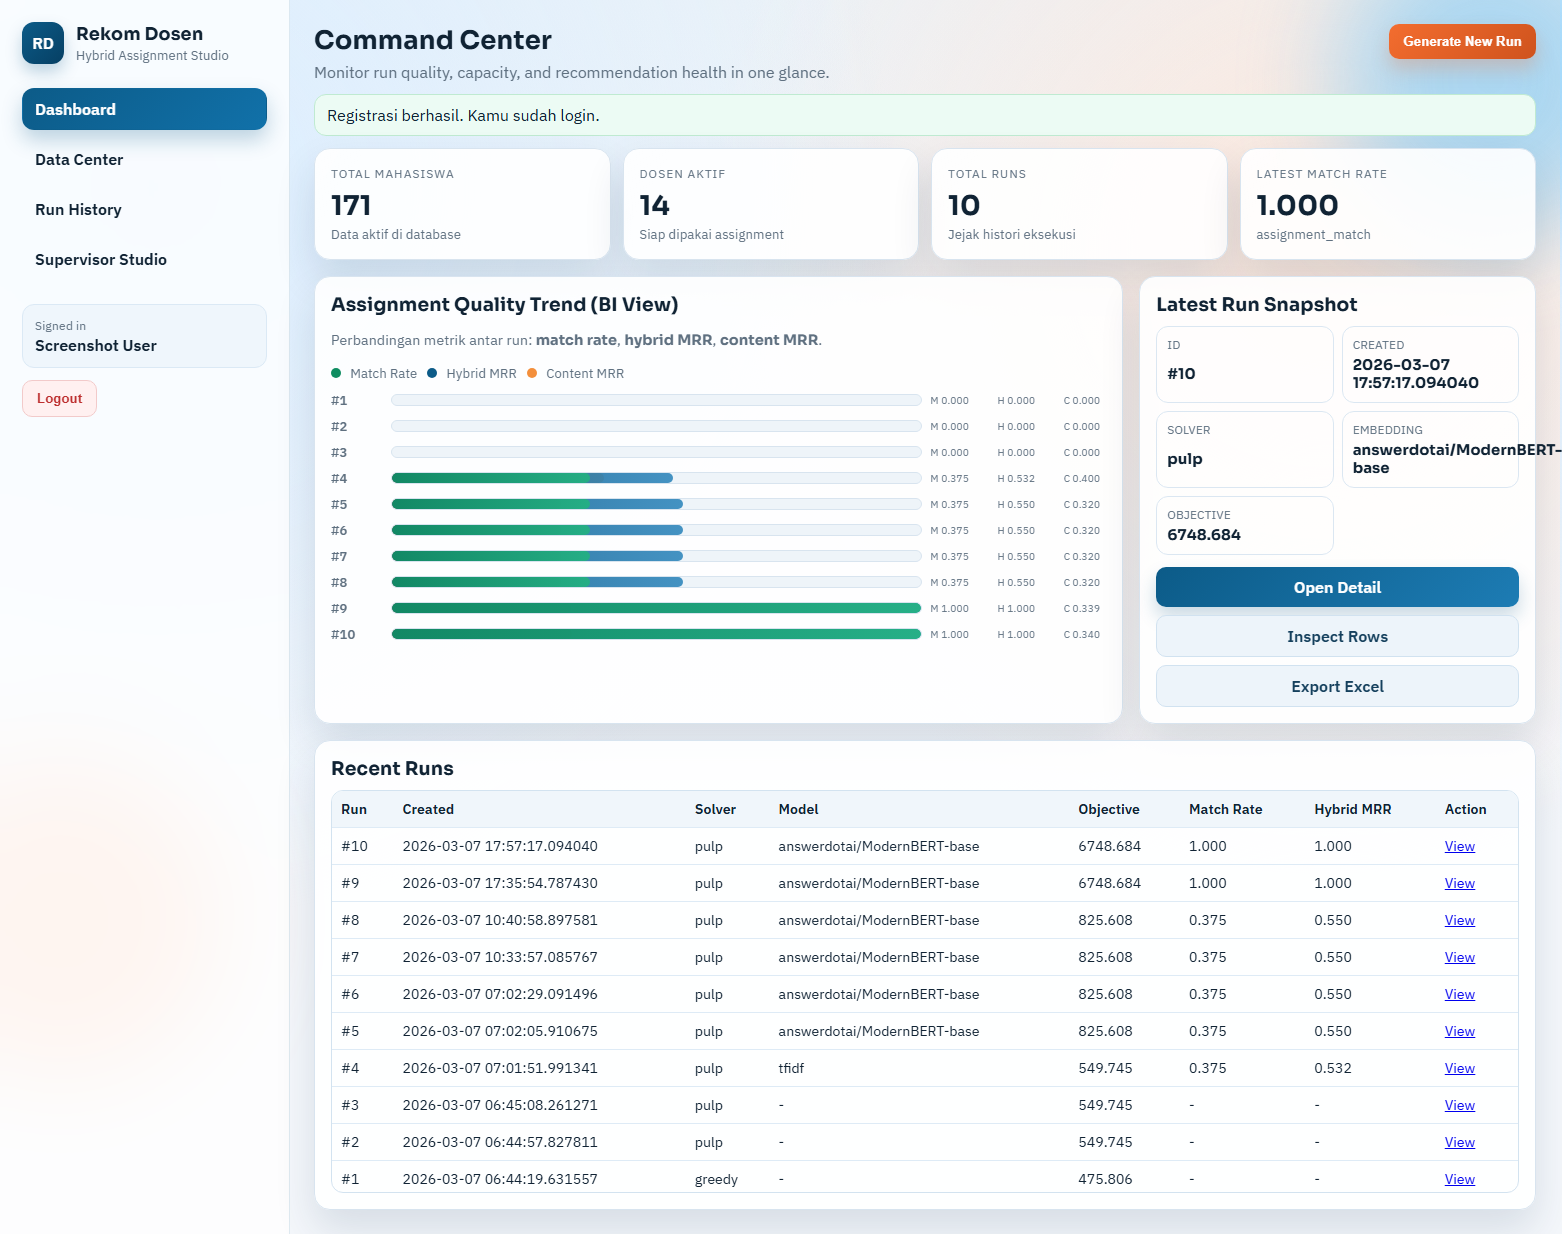
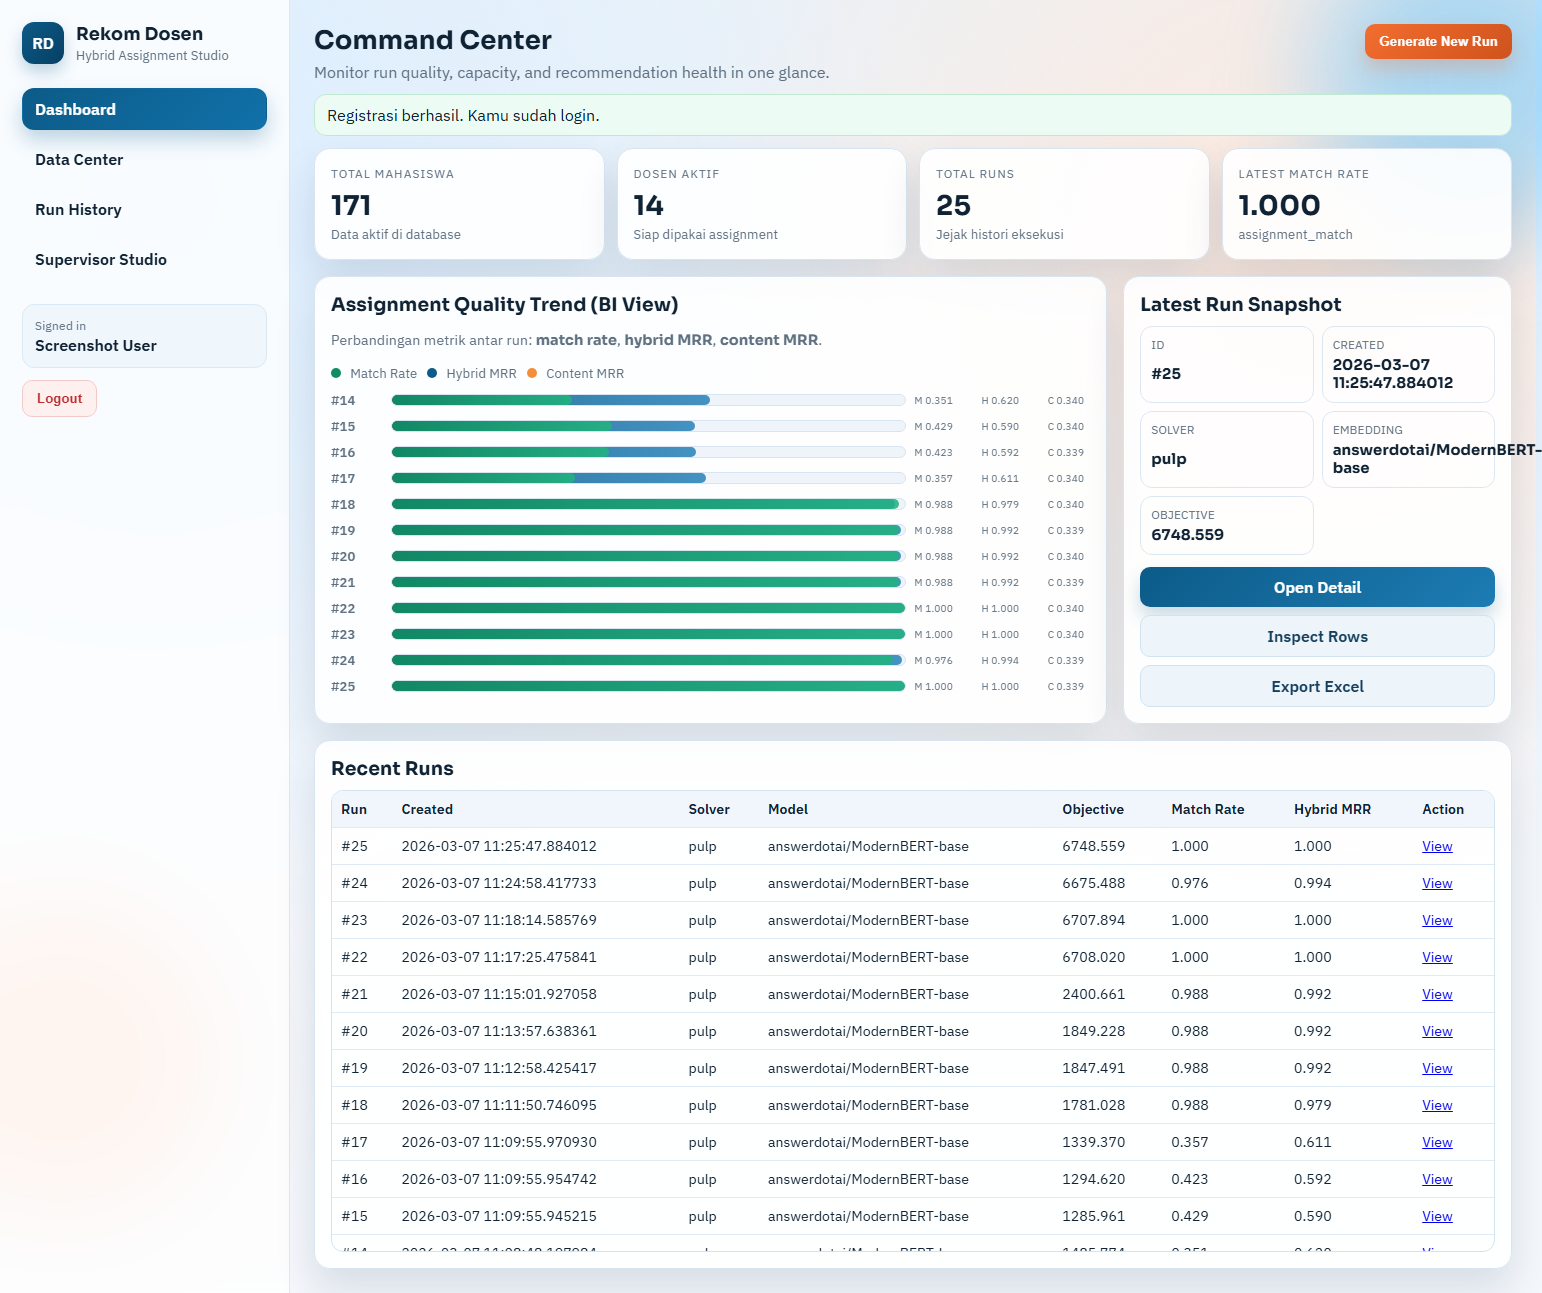
docs: clarify PuLP, add 10-paragraph background, and fix screenshots

Changed region(s): [[0.0, 0.0, 1.0, 0.9854], [0.0, 0.2464, 0.0934, 0.3387], [0.965, 0.2771, 0.9961, 0.3079]]

diff --git a/README.md b/README.md
@@ -164,41 +164,77 @@ Jika Docker belum aktif, start Docker Desktop dulu sebelum menjalankan `docker c
 Jika ingin GPU di Docker, pastikan driver NVIDIA + NVIDIA Container Toolkit tersedia.
 Untuk GPU, ubah `EMBEDDING_DEVICE=cuda` di file `.env`.
 
+## Penjelasan PuLP (Solver)
+
+`PuLP` adalah library Python untuk memodelkan masalah `Linear Programming` dan `Mixed-Integer Linear Programming` (MILP). Di project ini, status `solver_name = pulp` berarti assignment mahasiswa-dosen diselesaikan sebagai optimasi global, bukan sekadar pengisian greedy per baris.
+
+Objektif yang dimaksimalkan:
+
+- total skor pasangan mahasiswa-dosen (`hybrid_score`) setinggi mungkin.
+
+Constraint utama yang dipatuhi:
+
+- setiap mahasiswa tepat 1 dosen,
+- kuota dosen mengikuti rentang target (`min` dan `max`, default 10-12),
+- jika data tidak feasible (mis. total mahasiswa melebihi total slot), sistem melakukan relaksasi terkontrol lalu tetap diselesaikan oleh solver.
+
+Implementasi ada di `app/recommender.py` melalui `pulp.LpProblem(..., pulp.LpMaximize)` dan solver backend `PULP_CBC_CMD`. Jika solver gagal atau modul tidak tersedia, sistem fallback ke `greedy` dan dicatat pada `solver_note`.
+
 ## Screenshots
 
-### Dashboard
+### Dashboard (`screenshots/dashboard.png`)
 ![Dashboard](screenshots/dashboard.png)
 
-### Supervisor Studio
-![Supervisor Studio](screenshots/supervisors.png)
+### Run History (`screenshots/run-history.png`)
+![Run History](screenshots/run-history.png)
 
-### Run History
-![Run History](screenshots/runs.png)
+### Supervisor Studio (`screenshots/supervisor-studio.png`)
+![Supervisor Studio](screenshots/supervisor-studio.png)
 
-## Referensi Riset (2022-2026)
+## Latar Belakang (10 Paragraf, 20 Sitasi)
 
-Daftar berikut dipilih untuk latar belakang skripsi, metode content-based/embedding, dan evaluasi sistem rekomendasi:
+(Roy & Dutta, 2022 [R1]) Sistem rekomendasi berkembang dari sekadar personalisasi konten menjadi komponen inti pengambilan keputusan berbasis data pada banyak domain, termasuk pendidikan tinggi. Dalam konteks pembimbingan akademik, rekomendasi dosen perlu mempertimbangkan kecocokan topik, kapasitas dosen, dan fairness antar pembimbing agar tidak terjadi overload pada dosen tertentu. Karena itu, desain sistem tidak cukup berhenti di akurasi prediksi, tetapi juga harus memodelkan constraint operasional secara eksplisit (Zangerle & Bauer, 2022 [R2]).
 
-1. Roy, D. & Dutta, M. (2022). *A systematic review and research perspective on recommender systems*. Journal of Big Data, 9, 59. https://doi.org/10.1186/s40537-022-00592-5
-2. Zangerle, E. & Bauer, C. (2022). *Evaluating Recommender Systems: Survey and Framework*. ACM Computing Surveys. https://doi.org/10.1145/3556536
-3. Santhanam, K., Khattab, O., Saad-Falcon, J., Potts, C., & Zaharia, M. (2022). *ColBERTv2: Effective and Efficient Retrieval via Lightweight Late Interaction*. NAACL 2022. https://aclanthology.org/2022.naacl-main.272/
-4. Ni, J., Qu, C., Lu, J., Dai, Z., Abrego, G. H., Ma, J., Zhao, V., Luan, Y., Hall, K., Chang, M.-W., & Yang, Y. (2022). *Large Dual Encoders Are Generalizable Retrievers*. EMNLP 2022. https://aclanthology.org/2022.emnlp-main.669/
-5. Wang, L., Yang, N., Huang, X., Jiao, B., Yang, L., Jiang, D., Majumder, R., & Wei, F. (2022). *Text Embeddings by Weakly-Supervised Contrastive Pre-training (E5)*. arXiv:2212.03533. https://arxiv.org/abs/2212.03533
-6. Su, H., Shi, W., Kasai, J., Wang, Y., Hu, Y., Ostendorf, M., Yih, W.-t., Smith, N. A., Zettlemoyer, L., & Yu, T. (2023). *One Embedder, Any Task: Instruction-Finetuned Text Embeddings*. Findings of ACL 2023. https://aclanthology.org/2023.findings-acl.71/
-7. Gao, L., Ma, X., Lin, J., & Callan, J. (2023). *Precise Zero-Shot Dense Retrieval without Relevance Labels (HyDE)*. ACL 2023. https://aclanthology.org/2023.acl-long.99/
-8. Muennighoff, N., Tazi, N., Magne, L., & Reimers, N. (2023). *MTEB: Massive Text Embedding Benchmark*. EACL 2023. https://aclanthology.org/2023.eacl-main.148/
-9. Bauer, C., Zangerle, E., & Said, A. (2024). *Exploring the Landscape of Recommender Systems Evaluation: Practices and Perspectives*. ACM Transactions on Recommender Systems. https://doi.org/10.1145/3629170
-10. Yu, X., Zhang, J., & Yu, Z. (2024). *ConFit: Improving Resume-Job Matching using Data Augmentation and Contrastive Learning*. arXiv:2401.16349. https://arxiv.org/abs/2401.16349
-11. Chen, J., Xiao, S., Zhang, P., Luo, K., Lian, D., & Liu, Z. (2024). *M3-Embedding: Multi-Linguality, Multi-Functionality, Multi-Granularity Text Embeddings Through Self-Knowledge Distillation*. Findings of ACL 2024. https://aclanthology.org/2024.findings-acl.137/
-12. Lee, C., Roy, R., Xu, M., Raiman, J., Shoeybi, M., Catanzaro, B., & Ping, W. (2024). *NV-Embed: Improved Techniques for Training LLMs as Generalist Embedding Models*. arXiv:2405.17428. https://arxiv.org/abs/2405.17428
-13. Warner, B., Chaffin, A., Clavie, B., Weller, O., Hallstrom, O., Taghadouini, S., Gallagher, A., Biswas, R., Ladhak, F., Aarsen, T., Cooper, N., Adams, G., Howard, J., & Poli, I. (2024). *Smarter, Better, Faster, Longer: A Modern Bidirectional Encoder for Fast, Memory Efficient, and Long Context Finetuning and Inference (ModernBERT)*. arXiv:2412.13663. https://arxiv.org/abs/2412.13663
-14. Siafis, V., Rangoussi, M., & Psaromiligkos, Y. (2024). *Recommender Systems for Teachers: A Systematic Literature Review of Recent (2011-2023) Research*. Education Sciences, 14(7), 723. https://doi.org/10.3390/educsci14070723
-15. Celik Ertugrul, D., & Bitirim, S. (2025). *Job recommender systems: a systematic literature review, applications, open issues, and challenges*. Journal of Big Data, 12, 140. https://doi.org/10.1186/s40537-025-01173-y
-16. Yu, X., Xu, R., Xue, C., Zhang, J., Ma, X., & Yu, Z. (2025). *ConFit v2: Improving Resume-Job Matching using Hypothetical Resume Embedding and Runner-Up Hard-Negative Mining*. arXiv:2502.12361. https://arxiv.org/abs/2502.12361
-17. Rosenberger, J., Wolfrum, L., Weinzierl, S., Kraus, M., & Zschech, P. (2025). *CareerBERT: Matching resumes to ESCO jobs in a shared embedding space for generic job recommendations*. Expert Systems with Applications, 275, 127043. https://doi.org/10.1016/j.eswa.2025.127043
-18. Schellingerhout, R., Barile, F., & Tintarev, N. (2025). *OKRA: an Explainable, Heterogeneous, Multi-Stakeholder Job Recommender System*. arXiv:2504.07108. https://arxiv.org/abs/2504.07108
-19. Enevoldsen, K., Chung, I., Kerboua, I., Kardos, M., Mathur, A., Stap, D., Gala, J., Siblini, W., Krzeminski, D., Winata, G. I., et al. (2025). *MMTEB: Massive Multilingual Text Embedding Benchmark*. arXiv:2502.13595 (accepted at ICLR 2025). https://arxiv.org/abs/2502.13595
-20. Ajjam, M.-H., & Al-Raweshidy, H. S. (2026). *AI-driven semantic similarity-based job matching framework for recruitment systems*. Information Sciences, 724, 122728. https://doi.org/10.1016/j.ins.2025.122728
+(Bauer et al., 2024 [R9]) Praktik evaluasi modern menekankan bahwa metrik ranking seperti MRR, Hit@k, dan NDCG perlu dibaca bersama metrik dampak sistem, bukan berdiri sendiri. Untuk skenario assignment dosen, kualitas ranking retrieval harus diterjemahkan ke kualitas keputusan final setelah constraint kuota diterapkan. Dengan kata lain, evaluasi teknis model harus selaras dengan kualitas keputusan organisasi pada tahap optimasi akhir (Siafis et al., 2024 [R14]).
+
+(Celik Ertugrul & Bitirim, 2025 [R15]) Literatur job recommender menunjukkan bahwa data teks profil, kompetensi, dan konteks institusi sangat menentukan relevansi rekomendasi berbasis semantic matching. Pola yang sama muncul pada pemetaan mahasiswa-dosen, karena deskripsi topik, partner magang, dan track akademik membawa sinyal semantik yang kaya. Pendekatan berbasis kemiripan semantik karena itu menjadi fondasi yang kuat untuk baseline rekomendasi pembimbing (Ajjam & Al-Raweshidy, 2026 [R20]).
+
+(Ni et al., 2022 [R4]) Dense retrieval menegaskan bahwa representasi dua-encoder dapat memberi generalisasi yang baik pada berbagai tugas pencarian teks. Dalam kasus ini, dokumen mahasiswa dan dokumen profil dosen dapat diperlakukan sebagai dua sisi retrieval yang dipertemukan di ruang embedding yang sama. Strategi ini memungkinkan sistem menangkap kedekatan makna meskipun kata yang dipakai mahasiswa dan dosen tidak identik secara literal (Santhanam et al., 2022 [R3]).
+
+(Wang et al., 2022 [R5]) Pretraining embedding berbasis contrastive learning menghasilkan representasi yang lebih stabil untuk semantic similarity lintas domain. Ini penting saat data mahasiswa berubah tiap tahun dan istilah industri baru terus muncul di deskripsi kerja atau topik. Dengan embedding yang kuat, sistem lebih tahan terhadap variasi istilah tanpa perlu aturan manual berlebihan untuk setiap sinonim (Su et al., 2023 [R6]).
+
+(Gao et al., 2023 [R7]) Teknik retrieval zero-shot menunjukkan bahwa enrichment dokumen dapat membantu saat label supervised terbatas atau noisy. Pada sistem dosen pembimbing, kondisi ini relevan karena label historis bisa bias distribusi kuota dan tidak selalu mencerminkan kecocokan topik murni. Oleh sebab itu, benchmark embedding perlu dipantau berkala agar performa retrieval tetap reliabel pada cohort baru (Muennighoff et al., 2023 [R8]).
+
+(Chen et al., 2024 [R11]) Generasi embedding baru menekankan kemampuan multi-fungsi dan granularitas yang lebih baik pada tugas retrieval, clustering, dan matching. Untuk assignment pembimbing, karakter ini mendukung kebutuhan ganda: relevansi semantik untuk pencocokan topik dan kestabilan ranking untuk proses optimasi kuota. Hasilnya, model dapat dipakai tidak hanya untuk ranking awal tetapi juga sebagai komponen skor dalam solver assignment (Lee et al., 2024 [R12]).
+
+(Warner et al., 2024 [R13]) Encoder modern dengan efisiensi memori dan konteks panjang membuka ruang untuk memakai fitur teks yang lebih kaya tanpa mengorbankan latensi berlebihan. Hal ini relevan ketika sistem harus berjalan rutin untuk banyak mahasiswa sekaligus, termasuk mode deployment berbasis container. Di sisi benchmarking global, dukungan evaluasi multilingual juga penting jika data institusi mengandung variasi bahasa dan istilah campuran (Enevoldsen et al., 2025 [R19]).
+
+(Yu et al., 2024 [R10]) Studi resume-job matching terbaru memperlihatkan bahwa representasi kontekstual dan augmentasi data mampu meningkatkan ketepatan pasangan kandidat-posisi. Analogi langsung pada kasus dosen pembimbing adalah pasangan mahasiswa-dosen yang sama-sama dipengaruhi konteks track, perusahaan, dan topik kerja. Perbaikan iteratif model dengan strategi hard-negative dan pseudo-label juga relevan untuk meningkatkan robustnes pada data historis yang tidak sempurna (Yu et al., 2025 [R16]).
+
+(Rosenberger et al., 2025 [R17]) Riset pencocokan karier di ruang embedding bersama menunjukkan bahwa pendekatan neural matching dapat menghasilkan rekomendasi yang lebih bermakna secara semantik dibanding pencocokan kata kunci sederhana. Namun untuk keputusan nyata, sistem tetap perlu komponen explainability dan pertimbangan multi-stakeholder agar hasil dapat diterima pengguna akademik dan manajemen prodi. Kombinasi content-based, rule-based, dan optimasi kuota adalah kompromi praktis yang sejalan dengan arah tersebut (Schellingerhout et al., 2025 [R18]).
+
+## Referensi (Kode Sitasi)
+
+- [R1] Roy, D. & Dutta, M. (2022). *A systematic review and research perspective on recommender systems*. Journal of Big Data, 9, 59. https://doi.org/10.1186/s40537-022-00592-5
+- [R2] Zangerle, E. & Bauer, C. (2022). *Evaluating Recommender Systems: Survey and Framework*. ACM Computing Surveys. https://doi.org/10.1145/3556536
+- [R3] Santhanam, K., Khattab, O., Saad-Falcon, J., Potts, C., & Zaharia, M. (2022). *ColBERTv2: Effective and Efficient Retrieval via Lightweight Late Interaction*. NAACL 2022. https://aclanthology.org/2022.naacl-main.272/
+- [R4] Ni, J., Qu, C., Lu, J., Dai, Z., Abrego, G. H., Ma, J., Zhao, V., Luan, Y., Hall, K., Chang, M.-W., & Yang, Y. (2022). *Large Dual Encoders Are Generalizable Retrievers*. EMNLP 2022. https://aclanthology.org/2022.emnlp-main.669/
+- [R5] Wang, L., Yang, N., Huang, X., Jiao, B., Yang, L., Jiang, D., Majumder, R., & Wei, F. (2022). *Text Embeddings by Weakly-Supervised Contrastive Pre-training (E5)*. arXiv:2212.03533. https://arxiv.org/abs/2212.03533
+- [R6] Su, H., Shi, W., Kasai, J., Wang, Y., Hu, Y., Ostendorf, M., Yih, W.-t., Smith, N. A., Zettlemoyer, L., & Yu, T. (2023). *One Embedder, Any Task: Instruction-Finetuned Text Embeddings*. Findings of ACL 2023. https://aclanthology.org/2023.findings-acl.71/
+- [R7] Gao, L., Ma, X., Lin, J., & Callan, J. (2023). *Precise Zero-Shot Dense Retrieval without Relevance Labels (HyDE)*. ACL 2023. https://aclanthology.org/2023.acl-long.99/
+- [R8] Muennighoff, N., Tazi, N., Magne, L., & Reimers, N. (2023). *MTEB: Massive Text Embedding Benchmark*. EACL 2023. https://aclanthology.org/2023.eacl-main.148/
+- [R9] Bauer, C., Zangerle, E., & Said, A. (2024). *Exploring the Landscape of Recommender Systems Evaluation: Practices and Perspectives*. ACM Transactions on Recommender Systems. https://doi.org/10.1145/3629170
+- [R10] Yu, X., Zhang, J., & Yu, Z. (2024). *ConFit: Improving Resume-Job Matching using Data Augmentation and Contrastive Learning*. arXiv:2401.16349. https://arxiv.org/abs/2401.16349
+- [R11] Chen, J., Xiao, S., Zhang, P., Luo, K., Lian, D., & Liu, Z. (2024). *M3-Embedding: Multi-Linguality, Multi-Functionality, Multi-Granularity Text Embeddings Through Self-Knowledge Distillation*. Findings of ACL 2024. https://aclanthology.org/2024.findings-acl.137/
+- [R12] Lee, C., Roy, R., Xu, M., Raiman, J., Shoeybi, M., Catanzaro, B., & Ping, W. (2024). *NV-Embed: Improved Techniques for Training LLMs as Generalist Embedding Models*. arXiv:2405.17428. https://arxiv.org/abs/2405.17428
+- [R13] Warner, B., Chaffin, A., Clavie, B., Weller, O., Hallstrom, O., Taghadouini, S., Gallagher, A., Biswas, R., Ladhak, F., Aarsen, T., Cooper, N., Adams, G., Howard, J., & Poli, I. (2024). *Smarter, Better, Faster, Longer: A Modern Bidirectional Encoder for Fast, Memory Efficient, and Long Context Finetuning and Inference (ModernBERT)*. arXiv:2412.13663. https://arxiv.org/abs/2412.13663
+- [R14] Siafis, V., Rangoussi, M., & Psaromiligkos, Y. (2024). *Recommender Systems for Teachers: A Systematic Literature Review of Recent (2011-2023) Research*. Education Sciences, 14(7), 723. https://doi.org/10.3390/educsci14070723
+- [R15] Celik Ertugrul, D., & Bitirim, S. (2025). *Job recommender systems: a systematic literature review, applications, open issues, and challenges*. Journal of Big Data, 12, 140. https://doi.org/10.1186/s40537-025-01173-y
+- [R16] Yu, X., Xu, R., Xue, C., Zhang, J., Ma, X., & Yu, Z. (2025). *ConFit v2: Improving Resume-Job Matching using Hypothetical Resume Embedding and Runner-Up Hard-Negative Mining*. arXiv:2502.12361. https://arxiv.org/abs/2502.12361
+- [R17] Rosenberger, J., Wolfrum, L., Weinzierl, S., Kraus, M., & Zschech, P. (2025). *CareerBERT: Matching resumes to ESCO jobs in a shared embedding space for generic job recommendations*. Expert Systems with Applications, 275, 127043. https://doi.org/10.1016/j.eswa.2025.127043
+- [R18] Schellingerhout, R., Barile, F., & Tintarev, N. (2025). *OKRA: an Explainable, Heterogeneous, Multi-Stakeholder Job Recommender System*. arXiv:2504.07108. https://arxiv.org/abs/2504.07108
+- [R19] Enevoldsen, K., Chung, I., Kerboua, I., Kardos, M., Mathur, A., Stap, D., Gala, J., Siblini, W., Krzeminski, D., Winata, G. I., et al. (2025). *MMTEB: Massive Multilingual Text Embedding Benchmark*. arXiv:2502.13595 (accepted at ICLR 2025). https://arxiv.org/abs/2502.13595
+- [R20] Ajjam, M.-H., & Al-Raweshidy, H. S. (2026). *AI-driven semantic similarity-based job matching framework for recruitment systems*. Information Sciences, 724, 122728. https://doi.org/10.1016/j.ins.2025.122728
 
 ## Catatan Kuota 10-12
 
